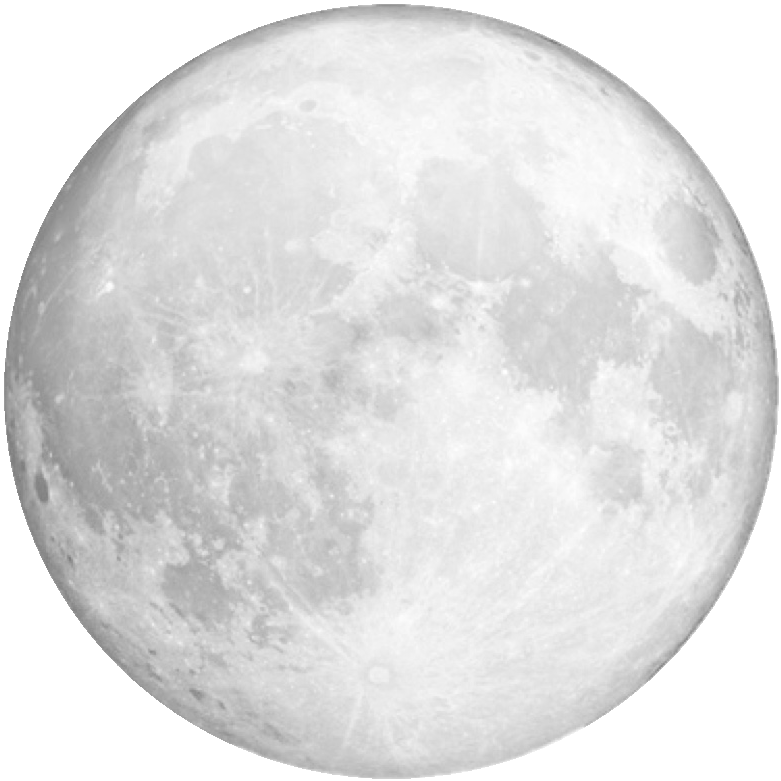
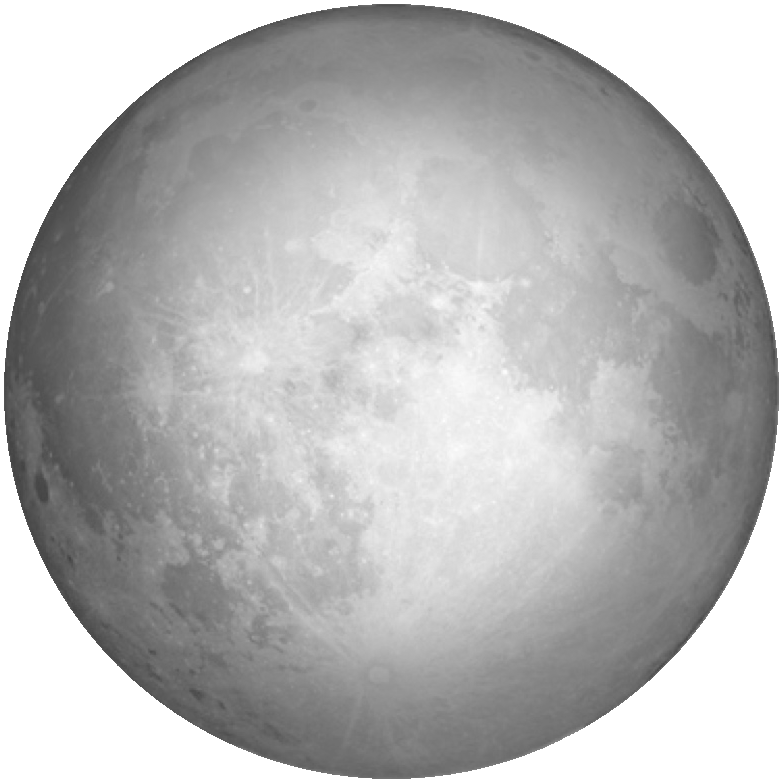
new space simulator (patched)

diff --git a/advanced/game_org/main.py b/advanced/game_org/main.py
@@ -10,18 +10,20 @@ pygame.display.set_caption("The Earth and the Moon")
 earth_img = pygame.image.load('earth_picture.png')
 earth_img_scaled = pygame.transform.scale(earth_img, (256, 256))
 
-new_img_gradient(earth_img_scaled.get_size())
-earth_shadow = pygame.image.load('shadow.png')
+new_img_gradient(earth_img_scaled.get_size(), 'earth_shadow')
+earth_shadow = pygame.image.load('earth_shadow.png')
 earth_shadow_scaled = pygame.transform.scale(earth_shadow, earth_img_scaled.get_size())
 
 moon_img = pygame.image.load('moon 2.png')
-moon_img_scaled = pygame.transform.scale(moon_img, (50, 50))
+moon_img_scaled = pygame.transform.scale(moon_img, (64, 64))
 
-new_img_gradient(moon_img_scaled.get_size())
-moon_shadow = pygame.image.load('shadow.png')
+new_img_gradient(moon_img_scaled.get_size(), 'moon_shadow')
+moon_shadow = pygame.image.load('moon_shadow.png')
 moon_shadow_scaled = pygame.transform.scale(moon_shadow, moon_img_scaled.get_size())
 
 bg_img = pygame.image.load('starry sky 2.jpg')
+
+pygame.display.set_icon(earth_img_scaled)
 
 
 def display_bg():
@@ -43,8 +45,8 @@ def rotation(image, degrees, top_left):
     screen.blit(rotated_image, new_rect)
 
 def earth_orbit(apoapsis, periapsis, degrees):
-    earth_center_x = 720
-    earth_center_y = 352
+    earth_center_x = 770
+    earth_center_y = 402
 
     orbit_coordinates = (apoapsis*to_degrees(math.cos(degrees)) + earth_center_x,
                          periapsis*to_degrees(math.sin(degrees)) + earth_center_y)
@@ -54,9 +56,9 @@ def to_degrees(value):
     return value * 180 / math.pi
 
 
-# def find_center(image, top_left):
-    # new_rect = image.get_rect(center=image.get_rect(topleft=top_left).center)
-    # return new_rect
+def find_center(image, top_left):
+    new_rect = image.get_rect(center=image.get_rect(topleft=top_left).center)
+    return new_rect
 
 
 clock = pygame.time.Clock()
@@ -85,8 +87,8 @@ while running:
         moon(counter, shadow_counter)
         earth(shadow_counter)
 
-    counter += 0.01
-    shadow_counter += 0.01
+    counter += 0.005
+    shadow_counter += 0.005
     pygame.display.update()
     clock.tick(144)
 

diff --git a/advanced/game_org/shadow.py b/advanced/game_org/shadow.py
@@ -1,7 +1,7 @@
 from PIL import Image, ImageDraw
 import math
 
-def new_img_gradient(size):
+def new_img_gradient(size, name):
     img = Image.new(mode='RGBA', size=size, color=(0, 0, 0, 0))
 
     def gradient_by_point(image):
@@ -12,12 +12,11 @@ def new_img_gradient(size):
                             math.sqrt(-(pixel_row-image.size[0]//2)**2+(image.size[0]//2)**2)+image.size[0]//2,  # right-most x value for the circle at point y
                             pixel_row),  # y value
                         fill=(0, 0, 0, round((pixel_row/image.size[0])*255)))
-        image.save('shadow.png')
+        image.save(f'{name}.png')
         return image
 
     return gradient_by_point(img)
 
 
 if __name__ == '__main__':
-    new_img_gradient((256, 256)).show()
-    print(type(new_img_gradient((512, 512))))
+    new_img_gradient((1024, 1024), 'shadow').show()
